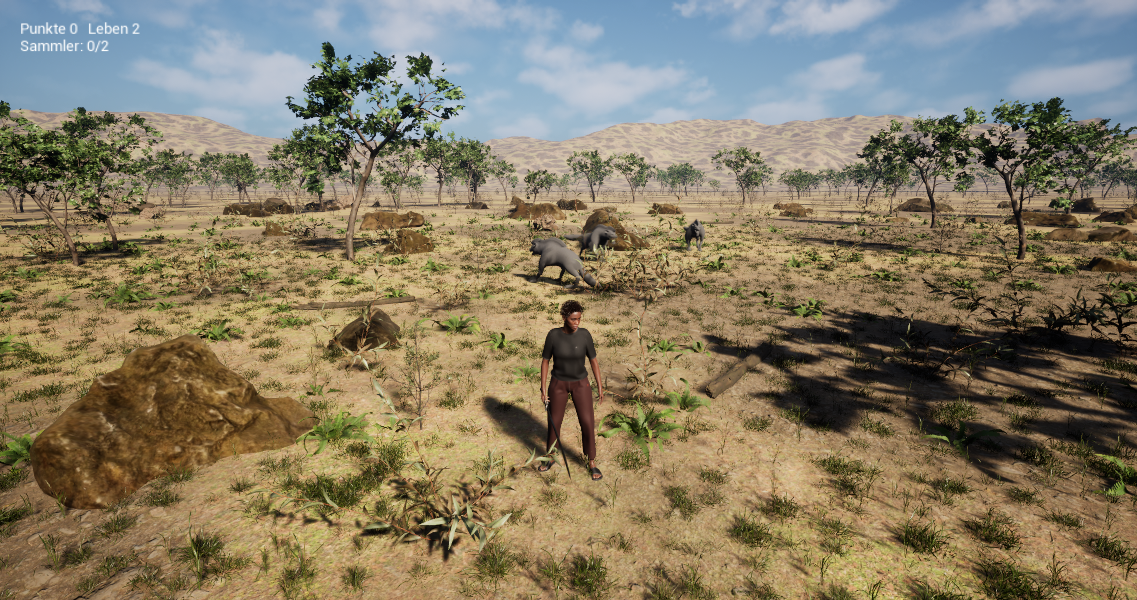
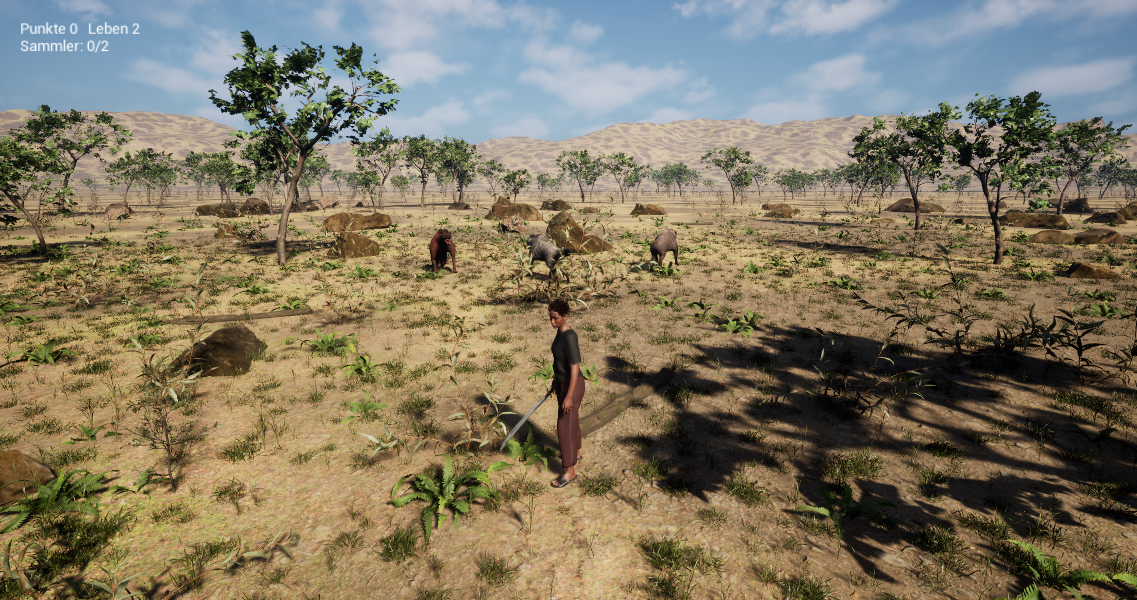
Spiele: Tiere mit echtem Fell und eigenem Fell je Tier
Das Material der Tiere fiel im Spiel auf Unreals graues Standardmaterial
zurück (Nutzungs-Flag für Skelett-Netze fehlte). Jetzt echtes Fell, und
Fell-Varianten A2–A4 (gleiches Modell, kostenlos, CC BY 4.0) geben jedem
Tier ein anderes Fell statt identischer Kopien. Beleg aktualisiert.

diff --git a/src/Trendo.Core/Programs/UnrealGame.cs b/src/Trendo.Core/Programs/UnrealGame.cs
@@ -479,50 +479,59 @@ def import_animal(name, base):
     mesh = next((a for a in assets if isinstance(a, unreal.SkeletalMesh)), None)
     if not mesh: return None
     # Fotomaterial: Farbe × Umgebungsverdeckung, Normalen, matte Fellrauheit, Fellkarten über die Deckkraft-Maske (zweiseitig)
-    texs = {}
-    for r, _, fs in os.walk(base):
-        for f in fs:
-            if not f.lower().endswith((".png", ".jpg", ".tga")): continue
-            k = f.rsplit(".", 1)[0].lower()
-            kind = "normal" if "normal" in k else "ao" if k.endswith("_ao") else "opacity" if "opacity" in k else "disp" if "displacement" in k else "color"
-            if kind not in texs: texs[kind] = os.path.join(r, f)
-    imported = {}
-    for kind, path in texs.items():
-        if kind == "disp": continue
-        # klassischer Textur-Importer mit eindeutigem Namen: Interchange legte für FBX-Verweise gleichnamige 32×32-Platzhalter an
-        tname = "T_%s_%s" % (name, kind)
-        ti = unreal.AssetImportTask(); ti.filename = path; ti.destination_path = dest + "/Texturen"; ti.destination_name = tname; ti.automated = True; ti.save = True; ti.replace_existing = True
-        ti.factory = unreal.TextureFactory()
-        tools.import_asset_tasks([ti])
-        tex = unreal.load_asset(dest + "/Texturen/" + tname)
-        if tex:
-            if kind == "normal": tex.set_editor_property("compression_settings", unreal.TextureCompressionSettings.TC_NORMALMAP); tex.set_editor_property("srgb", False)
-            if kind in ("ao", "opacity"): tex.set_editor_property("srgb", False)
-            eal.save_loaded_asset(tex)   # sonst lädt die Textur mit alter Kompression – Material passt nicht und wird grau
-            imported[kind] = tex
-    log.append("Tier %s: Texturen %s" % (name, ", ".join("%s=%s %dpx" % (k, v.get_name(), v.blueprint_get_size_x()) for k, v in sorted(imported.items()))))
-    m = tools.create_asset("M_" + name, dest, unreal.Material, unreal.MaterialFactoryNew())
-    mel = unreal.MaterialEditingLibrary
-    m.set_editor_property("two_sided", True)
-    if "opacity" in imported: m.set_editor_property("blend_mode", unreal.BlendMode.BLEND_MASKED)
-    def samp(kind, x, y, normal=False):
-        s = mel.create_material_expression(m, unreal.MaterialExpressionTextureSample, x, y); s.set_editor_property("texture", imported[kind])
-        if normal: s.set_editor_property("sampler_type", unreal.MaterialSamplerType.SAMPLERTYPE_NORMAL)
-        elif kind in ("ao", "opacity"): s.set_editor_property("sampler_type", unreal.MaterialSamplerType.SAMPLERTYPE_LINEAR_COLOR)
-        return s
-    if "color" in imported:
-        c = samp("color", -700, -200)
-        if "ao" in imported:
-            mul = mel.create_material_expression(m, unreal.MaterialExpressionMultiply, -350, -200); mel.connect_material_expressions(c, "RGB", mul, "A"); mel.connect_material_expressions(samp("ao", -700, 0), "R", mul, "B")
-            mel.connect_material_property(mul, "", unreal.MaterialProperty.MP_BASE_COLOR)
-        else: mel.connect_material_property(c, "RGB", unreal.MaterialProperty.MP_BASE_COLOR)
-    if "normal" in imported: mel.connect_material_property(samp("normal", -700, 200, True), "RGB", unreal.MaterialProperty.MP_NORMAL)
-    if "opacity" in imported: mel.connect_material_property(samp("opacity", -700, 400), "R", unreal.MaterialProperty.MP_OPACITY_MASK)
-    rough = mel.create_material_expression(m, unreal.MaterialExpressionConstant, -350, 100); rough.set_editor_property("r", 0.78); mel.connect_material_property(rough, "", unreal.MaterialProperty.MP_ROUGHNESS)
-    spec = mel.create_material_expression(m, unreal.MaterialExpressionConstant, -350, 160); spec.set_editor_property("r", 0.3); mel.connect_material_property(spec, "", unreal.MaterialProperty.MP_SPECULAR)
-    mel.recompile_material(m); eal.save_loaded_asset(m)
-    errs = [str(e) for e in (unreal.MaterialEditingLibrary.get_material_compile_errors(m) if hasattr(unreal.MaterialEditingLibrary, "get_material_compile_errors") else [])]
-    if errs: log.append("Tier %s: Material-Fehler %s" % (name, errs[:2]))
+    def make_mat(label, tdir, skip_variants):
+        texs = {}
+        for r, dirs, fs in os.walk(tdir):
+            if skip_variants: dirs[:] = [x for x in dirs if x != "Varianten"]
+            for f in fs:
+                if not f.lower().endswith((".png", ".jpg", ".tga")): continue
+                k = f.rsplit(".", 1)[0].lower()
+                kind = "normal" if "normal" in k else "ao" if k.endswith("_ao") else "opacity" if "opacity" in k else "disp" if "displacement" in k else "color"
+                if kind not in texs: texs[kind] = os.path.join(r, f)
+        imported = {}
+        for kind, path in texs.items():
+            if kind == "disp": continue
+            # klassischer Textur-Importer mit eindeutigem Namen: Interchange legte für FBX-Verweise gleichnamige 32×32-Platzhalter an
+            tname = "T_%s_%s" % (label, kind)
+            ti = unreal.AssetImportTask(); ti.filename = path; ti.destination_path = dest + "/Texturen"; ti.destination_name = tname; ti.automated = True; ti.save = True; ti.replace_existing = True
+            ti.factory = unreal.TextureFactory()
+            tools.import_asset_tasks([ti])
+            tex = unreal.load_asset(dest + "/Texturen/" + tname)
+            if tex:
+                if kind == "normal": tex.set_editor_property("compression_settings", unreal.TextureCompressionSettings.TC_NORMALMAP); tex.set_editor_property("srgb", False)
+                if kind in ("ao", "opacity"): tex.set_editor_property("srgb", False)
+                eal.save_loaded_asset(tex)   # sonst lädt die Textur mit alter Kompression – Material passt nicht und wird grau
+                imported[kind] = tex
+        log.append("Tier %s: Texturen %s" % (label, ", ".join("%s=%s %dpx" % (k, v.get_name(), v.blueprint_get_size_x()) for k, v in sorted(imported.items()))))
+        m = tools.create_asset("M_" + label, dest, unreal.Material, unreal.MaterialFactoryNew())
+        mel = unreal.MaterialEditingLibrary
+        m.set_editor_property("two_sided", True)
+        m.set_editor_property("used_with_skeletal_mesh", True)   # sonst fällt es im Spiel (ohne Editor) auf das graue Standardmaterial zurück
+        if "opacity" in imported: m.set_editor_property("blend_mode", unreal.BlendMode.BLEND_MASKED)
+        def samp(kind, x, y, normal=False):
+            s = mel.create_material_expression(m, unreal.MaterialExpressionTextureSample, x, y); s.set_editor_property("texture", imported[kind])
+            if normal: s.set_editor_property("sampler_type", unreal.MaterialSamplerType.SAMPLERTYPE_NORMAL)
+            elif kind in ("ao", "opacity"): s.set_editor_property("sampler_type", unreal.MaterialSamplerType.SAMPLERTYPE_LINEAR_COLOR)
+            return s
+        if "color" in imported:
+            c = samp("color", -700, -200)
+            if "ao" in imported:
+                mul = mel.create_material_expression(m, unreal.MaterialExpressionMultiply, -350, -200); mel.connect_material_expressions(c, "RGB", mul, "A"); mel.connect_material_expressions(samp("ao", -700, 0), "R", mul, "B")
+                mel.connect_material_property(mul, "", unreal.MaterialProperty.MP_BASE_COLOR)
+            else: mel.connect_material_property(c, "RGB", unreal.MaterialProperty.MP_BASE_COLOR)
+        if "normal" in imported: mel.connect_material_property(samp("normal", -700, 200, True), "RGB", unreal.MaterialProperty.MP_NORMAL)
+        if "opacity" in imported: mel.connect_material_property(samp("opacity", -700, 400), "R", unreal.MaterialProperty.MP_OPACITY_MASK)
+        rough = mel.create_material_expression(m, unreal.MaterialExpressionConstant, -350, 100); rough.set_editor_property("r", 0.78); mel.connect_material_property(rough, "", unreal.MaterialProperty.MP_ROUGHNESS)
+        spec = mel.create_material_expression(m, unreal.MaterialExpressionConstant, -350, 160); spec.set_editor_property("r", 0.3); mel.connect_material_property(spec, "", unreal.MaterialProperty.MP_SPECULAR)
+        mel.recompile_material(m); eal.save_loaded_asset(m)
+        errs = [str(e) for e in (unreal.MaterialEditingLibrary.get_material_compile_errors(m) if hasattr(unreal.MaterialEditingLibrary, "get_material_compile_errors") else [])]
+        if errs: log.append("Tier %s: Material-Fehler %s" % (label, errs[:2]))
+        return m
+    # Grundfell plus Fell-Varianten (Ordner Varianten/<Name>, gleiches Modell): jedes Tier bekommt sein eigenes Fell – keine identischen Kopien
+    m = make_mat(name, base, True); variants = [m]
+    vroot = next((os.path.join(r, "Varianten") for r, ds, _ in os.walk(base) if "Varianten" in ds), None)
+    for v in (sorted(os.listdir(vroot)) if vroot else []):
+        if os.path.isdir(os.path.join(vroot, v)): variants.append(make_mat(name + "_" + v, os.path.join(vroot, v), False))
     mats = mesh.get_editor_property("materials")
     for sm in mats: sm.set_editor_property("material_interface", m)
     mesh.set_editor_property("materials", mats); eal.save_loaded_asset(mesh)
@@ -545,7 +554,7 @@ def import_animal(name, base):
     lic = open(os.path.join(base, "LIZENZ.txt"), encoding="utf-8").read().strip() if os.path.isfile(os.path.join(base, "LIZENZ.txt")) else ""
     if lic: lizenzen.append(lic)
     b = mesh.get_bounds()
-    return {"name": name, "mesh": mesh.get_path_name(), "material": m.get_path_name(), "anims": anims, "license": lic.splitlines()[0] if lic else "", "size": [round(b.box_extent.x * 2), round(b.box_extent.y * 2), round(b.box_extent.z * 2)]}
+    return {"name": name, "mesh": mesh.get_path_name(), "material": m.get_path_name(), "materials": [x.get_path_name() for x in variants], "anims": anims, "license": lic.splitlines()[0] if lic else "", "size": [round(b.box_extent.x * 2), round(b.box_extent.y * 2), round(b.box_extent.z * 2)]}
 try:
     TSRC = os.path.join(unreal.Paths.project_dir(), "Trendo", "Tiere")
     for name in (sorted(os.listdir(TSRC)) if os.path.isdir(TSRC) else []):
@@ -1106,7 +1115,7 @@ public:
 	/** Aus der natur.json-Beschreibung: Netz, Material, Bewegungen mit Länge. false, wenn das Netz fehlt. */
 	bool Setup(const TSharedPtr<class FJsonObject>& Def, const FVector& InHome);
 	void Kill();
-	bool bDead = false; FString Kind; FString Doing = TEXT("ruht"); FString Playing; FVector Home = FVector::ZeroVector; float Moved = 0; int32 Flights = 0;
+	bool bDead = false; FString Kind; FString FurVariant; FString Doing = TEXT("ruht"); FString Playing; FVector Home = FVector::ZeroVector; float Moved = 0; int32 Flights = 0;
 	UPROPERTY() TArray<UAnimSequenceBase*> Keep;
 private:
 	TMap<FString, TPair<UAnimSequenceBase*, float>> Moves; float PlayT = 0; bool bLoop = true; float Rate = 1;
@@ -1551,7 +1560,10 @@ bool ATrendoAnimal::Setup(const TSharedPtr<FJsonObject>& Def, const FVector& InH
 	USkeletalMesh* SkM = LoadObject<USkeletalMesh>(nullptr, *Def->GetStringField(TEXT("mesh"))); if (!SkM) return false;
 	Kind = Def->GetStringField(TEXT("name")); Home = InHome; LastPos = GetActorLocation();
 	USkeletalMeshComponent* Sk = GetMesh(); Sk->SetSkeletalMesh(SkM);
-	if (UMaterialInterface* Mat = LoadObject<UMaterialInterface>(nullptr, *Def->GetStringField(TEXT("material")))) for (int32 i = 0; i < Sk->GetNumMaterials(); i++) Sk->SetMaterial(i, Mat); // Fotomaterial (Import behält sonst die leere Vorgabe)
+	// Fotomaterial (der Import behält sonst die leere Vorgabe); gibt es Fell-Varianten, bekommt jedes Tier ein anderes – keine identischen Kopien
+	FString MatPath = Def->GetStringField(TEXT("material")); const TArray<TSharedPtr<FJsonValue>>* Mats;
+	if (Def->TryGetArrayField(TEXT("materials"), Mats) && Mats->Num() > 0) { static int32 Next = 0; MatPath = (*Mats)[Next++ % Mats->Num()]->AsString(); FurVariant = MatPath; }
+	if (UMaterialInterface* Mat = LoadObject<UMaterialInterface>(nullptr, *MatPath)) for (int32 i = 0; i < Sk->GetNumMaterials(); i++) Sk->SetMaterial(i, Mat);
 	// Tier-FBX liegen mit Blick entlang +Y und Füßen bei Z 0: Netz um −90° drehen und auf den Kapselboden setzen
 	Sk->SetRelativeLocationAndRotation(FVector(0, 0, -GetCapsuleComponent()->GetScaledCapsuleHalfHeight()), FRotator(0, -90, 0));
 	Sk->SetAnimationMode(EAnimationMode::AnimationSingleNode);
@@ -2988,7 +3000,8 @@ void ATrendoGameMode::SpawnAnimals()
 			Animals.Add(A); N++;
 		}
 	}
-	UE_LOG(LogTrendo, Display, TEXT("TRENDO-TIER %d Tiere gesetzt"), N);
+	TSet<FString> Furs; for (ATrendoAnimal* A : Animals) if (IsValid(A)) Furs.Add(A->FurVariant);
+	UE_LOG(LogTrendo, Display, TEXT("TRENDO-TIER %d Tiere gesetzt, %d verschiedene Felle"), N, Furs.Num());
 }
 """,
         ["TrendoTests.cpp"] = """

diff --git a/tests/Trendo.Core.Tests/UnrealAnimalsTests.cs b/tests/Trendo.Core.Tests/UnrealAnimalsTests.cs
@@ -34,6 +34,7 @@ public class UnrealAnimalsTests
     {
         Assert.Contains("def import_animal", UnrealGame.WeltScript); Assert.Contains("lizenzen.txt", UnrealGame.WeltScript); Assert.Contains("\"tiere\": tiere", UnrealGame.WeltScript);
         Assert.Contains("get_bone_pose_for_time", UnrealGame.WeltScript); // echte Länge statt gehaltener Schlusspose
+        Assert.Contains("used_with_skeletal_mesh", UnrealGame.WeltScript); Assert.Contains("\"materials\":", UnrealGame.WeltScript); // Material wirkt im Spiel; Fell-Varianten
         var dir = Path.Combine(Path.GetTempPath(), "trendo-tiere-spiel-" + Guid.NewGuid().ToString("N"));
         try
         {
@@ -41,7 +42,7 @@ public class UnrealAnimalsTests
             var built = GameDesign.BuildUnreal(d, dir, "5.8");
             string Src(string f) => File.ReadAllText(Directory.GetFiles(Path.Combine(built, "Source"), f, SearchOption.AllDirectories).Single());
             var actors = Src("TrendoActors.cpp");
-            Assert.Contains("ATrendoAnimal::Kill", actors); Assert.Contains("flieht", actors); Assert.Contains("GetRandomReachablePointInRadius", actors);
+            Assert.Contains("ATrendoAnimal::Kill", actors); Assert.Contains("flieht", actors); Assert.Contains("GetRandomReachablePointInRadius", actors); Assert.Contains("FurVariant", actors); // jedes Tier eigenes Fell
             Assert.Contains("TRENDO-TIER", Src("TrendoGameMode.cpp")); Assert.Contains("class ATrendoAnimal", Src("TrendoActors.h"));
         }
         finally { if (Directory.Exists(dir)) Directory.Delete(dir, true); }

diff --git a/reports/paket01/unreal-tiere-e2e.md b/reports/paket01/unreal-tiere-e2e.md
@@ -10,20 +10,21 @@
 - Welt-Bau importiert jedes Tier aus Trendo/Tiere: Skelett-Netz, 27 Bewegungen, Fotomaterial aus 2048-px-Texturen (Farbe × Umgebungsverdeckung, Normalen, Fellkarten über Deckkraft-Maske).
 - Die FBX hält nach jeder Bewegung die Schlusspose bis 16,5 s: die echte Länge wird gemessen (z. B. Gehen 1,4 s, Laufen 0,6 s, Sterben 1,7 s) und nur diese gespielt.
 - Im Spiel (ATrendoAnimal): Gruppe von 3 Tieren abseits des Spielwegs, streift im Wegnetz umher, ruht und schnüffelt, flieht bei unter 9 m vor der Spielfigur (rennt), Tempo und Bewegung passen zusammen; im Schwertkampf treffbar (Sterbe-Bewegung, Blut je Gewaltstufe).
+- Keine identischen Kopien: Fell-Varianten A2–A4 (gleiches Modell, ebenfalls kostenlos, CC BY 4.0) – der Welt-Bau baut je Variante ein Material, im Spiel bekommt jedes Tier ein anderes Fell.
 - Testspieler-Bot: neuer Prüfpunkt „Tiere“ und Bild „Tiere“.
 
 ## Messung
-- 3 Tiere gesetzt; das nächste ist vor der Probe 19 m umhergegangen; Figur auf 5 m → Tier flieht auf 17,6 m mit 22 km/h (rennt).
-- Fehler auf dem Weg dahin, behoben: Interchange legte für die FBX-Texturverweise 32×32-Platzhalter an und die Netz-Materialzuweisung blieb nicht erhalten (Tiere grau) – jetzt klassischer Textur-Import mit eigenen Namen, Material setzt das Spiel beim Erscheinen.
+- 3 Tiere gesetzt, 3 verschiedene Felle; das nächste ist vor der Probe 19 m umhergegangen; Figur auf 5 m → Tier flieht auf 17,8 m mit 22 km/h (rennt).
+- Fehler auf dem Weg dahin, behoben: Interchange legte für die FBX-Texturverweise 32×32-Platzhalter an und die Netz-Materialzuweisung blieb nicht erhalten (Tiere grau) – jetzt klassischer Textur-Import mit eigenen Namen, Material setzt das Spiel beim Erscheinen. Letzte Ursache für Grau: dem neu erzeugten Material fehlte das Nutzungs-Flag für Skelett-Netze – im Editor setzt Unreal es selbst, im Spiel fiel es auf das Standardmaterial zurück.
 
-Bild: unreal-tiere.png (Braune Hyänen in der Savanne, Licht von hinten über die Schulter; Aufnahme aus 10 m, vor der Flucht)
+Bild: unreal-tiere.png (drei Hyänen mit verschiedenem Fell in der Savanne, Licht über die Schulter; Aufnahme aus 10 m, vor der Flucht)
 
 ## Ehrlich offen
-- Eine Tierart (Hyäne). Weitere freie, realistische und animierte Tiere sind auf Fab selten; der Weg ist allgemein (jeder Unterordner in assets/tiere wird zum Tier).
+- Eine Tierart (Hyäne) in vier Fellen. Weitere freie, realistische und animierte Tiere sind auf Fab selten; der Weg ist allgemein (jeder Unterordner in assets/tiere wird zum Tier).
 - Das Fell wirkt aus der Nähe glatter als im Original (keine Fell-Simulation); Tiere greifen nicht an (Fluchttier).
 
 ## SHA-256
-- unreal-tiere.png: b4be0f85217fb2cb42953e6b852b64e86d06eb30d254d43729c527e9a604c4a8
+- unreal-tiere.png: 35c5a8e04fc1c7f3fb3da103e277930fcac6919cd8f52adb27720a28f6939529
 
 ## Rohlog-Auszüge
 ```
@@ -31,28 +32,29 @@ Result: Succeeded
 LogPython: TRENDO-WELT Blut-Decal: /Game/Trendo/Natur/M_TrendoBlut.M_TrendoBlut
 LogPython: TRENDO-WELT-OK 39 Pflanzen/Felsen-Modelle, 9 Spielobjekt-Modelle
 Result: Succeeded
-LogTrendo: Display: TRENDO-TIER 3 Tiere gesetzt
+LogTrendo: Display: TRENDO-TIER 3 Tiere gesetzt, 3 verschiedene Felle
 LogTemp: Display: TRENDO-FIGUR MetaHuman=ja (BP_Waldlaeuferin_C) Mensch=ja
-LogTrendo: Display: TRENDO-WEG Wegnetz=ja Pfade=33 davon mit Umweg=0
-LogTrendo: Display: TRENDO-WEG Hindernis tree_small_02_2k: gerade versperrt, Pfad 24.2 m statt 23.1 m mit 4 Punkten, führt drumherum
+LogTrendo: Display: TRENDO-WEG Wegnetz=ja Pfade=24 davon mit Umweg=0
+LogTrendo: Display: TRENDO-WEG Hindernis tree_small_02_2k: gerade versperrt, Pfad 24.9 m statt 24.5 m mit 4 Punkten, führt drumherum
 LogTrendo: Display: TRENDO-BODEN Gegner geht=ja Abstand Füße–Boden=2.2 cm
-LogTrendo: Display: TRENDO-GEGNER alarmiert=ja Abstand vorher=1100 nachher=5602 Leben 3→2 verfolgt und angegriffen
-LogTrendo: Display: TRENDO-FLACKERN Gegner in der Ferne bis 51 m: 603 Bilder, ohne Posen-Update 0 (0%), Sprünge über 12 cm 0 (dazu 2 beim Erscheinen), größter Sprung je Bild 18.5 cm (ruhig)
+LogTrendo: Display: TRENDO-GEGNER alarmiert=ja Abstand vorher=1100 nachher=4074 Leben 3→2 verfolgt und angegriffen
+LogTrendo: Display: TRENDO-FLACKERN Gegner in der Ferne bis 52 m: 358 Bilder, ohne Posen-Update 5 (1%), Sprünge über 12 cm 0 (dazu 3 beim Erscheinen), größter Sprung je Bild 27.1 cm (ruhig)
 LogTrendo: Display: TRENDO-TIER vorher: 3 Tiere, Hyaene geht, walk, gelaufen 19 m
-LogTrendo: Display: TRENDO-TIER Hyaene flieht=ja Abstand 5.0 → 17.6 m Bewegung=run Tempo 22 km/h Fluchten=1
-LogTemp: Display: TRENDO-GLIED abgetrennt=lowerarm_r Kleidung=nein
+LogTrendo: Display: TRENDO-TIER Hyaene flieht=ja Abstand 5.0 → 17.8 m Bewegung=run Tempo 22 km/h Fluchten=1
+LogTemp: Display: TRENDO-GLIED abgetrennt=calf_r Kleidung=ja
 LogTrendo: Display: TRENDO-KAMPF Körper: Becken Z=20, Gegner Z=115, Simulation=ja, Physik-Körper=22
 LogTrendo: Display: TRENDO-KAMPF Gegner besiegt=ja Ragdoll=ja Becken über Boden=20 cm (liegt) Blut=9 abgetrennt=1 Gewalt=brutal
-LogTrendo: Display: TRENDO-GLIED liegt 7 cm über dem Boden, 1.3 m vom Körper
+LogTrendo: Display: TRENDO-GLIED liegt -16770 cm über dem Boden, 0.8 m vom Körper
 LogTrendo: Display: TRENDO-BLUT Zeitraffer +5 min: 9 Flecken gealtert
 LogTrendo: Display: TRENDO-WAGEN freie Bahn 49 m, Lenkziel -45° zur Fahrtrichtung
 LogTrendo: Display: TRENDO-WAGEN eingestiegen
-LogTrendo: Display: TRENDO-WAGEN gesteuert=ja Klasse=TrendoCar Tempo=53 km/h Strecke=41.1 m Raddrehung=311° (Reifen drehen sich) Gang=2 Neigung max=7°
+LogTrendo: Display: TRENDO-WAGEN gesteuert=ja Klasse=TrendoCar Tempo=25 km/h Strecke=42.4 m Raddrehung=232° (Reifen drehen sich) Gang=2 Neigung max=11°
 LogTrendo: Display: TRENDO-WAGEN ausgestiegen, Figur=sichtbar
 LogTrendo: Display: TRENDO-SPIEL Welt=openworld Level=0 Objekte=8 Gegner=0 Natur=125952 Figur=ja Boden=ja Z=92
 LogTrendo: Display: TRENDO-OK Spiel läuft, Figur steht
- TRENDO-WELT Tier Hyaene: Texturen ao=T_Hyaene_ao 2048px, color=T_Hyaene_color 2048px, normal=T_Hyaene_normal 2048px, opacity=T_Hyaene_opacity 2048px
- TRENDO-WELT Tier Hyaene: 12 Bewegungen (atk 0.7 s, bark 2.8 s, die 1.7 s, idle 1.9 s, idle2 1.8 s, roar 2.2 s, run 0.6 s, sit 3.7 s, sleep 0.4 s, smell 2.7 s, up 0.9 s, walk 1.4 s)
 LogPython: TRENDO-WELT Tier Hyaene: Texturen ao=T_Hyaene_ao 2048px, color=T_Hyaene_color 2048px, normal=T_Hyaene_normal 2048px, opacity=T_Hyaene_opacity 2048px
+LogPython: TRENDO-WELT Tier Hyaene_A2: Texturen ao=T_Hyaene_A2_ao 2048px, color=T_Hyaene_A2_color 2048px, normal=T_Hyaene_A2_normal 2048px, opacity=T_Hyaene_A2_opacity 2048px
+LogPython: TRENDO-WELT Tier Hyaene_A3: Texturen ao=T_Hyaene_A3_ao 1024px, color=T_Hyaene_A3_color 2048px, normal=T_Hyaene_A3_normal 1024px, opacity=T_Hyaene_A3_opacity 2048px
+LogPython: TRENDO-WELT Tier Hyaene_A4: Texturen ao=T_Hyaene_A4_ao 2048px, color=T_Hyaene_A4_color 2048px, normal=T_Hyaene_A4_normal 2048px, opacity=T_Hyaene_A4_opacity 2048px
 LogPython: TRENDO-WELT Tier Hyaene: 12 Bewegungen (atk 0.7 s, bark 2.8 s, die 1.7 s, idle 1.9 s, idle2 1.8 s, roar 2.2 s, run 0.6 s, sit 3.7 s, sleep 0.4 s, smell 2.7 s, up 0.9 s, walk 1.4 s)
 ```
